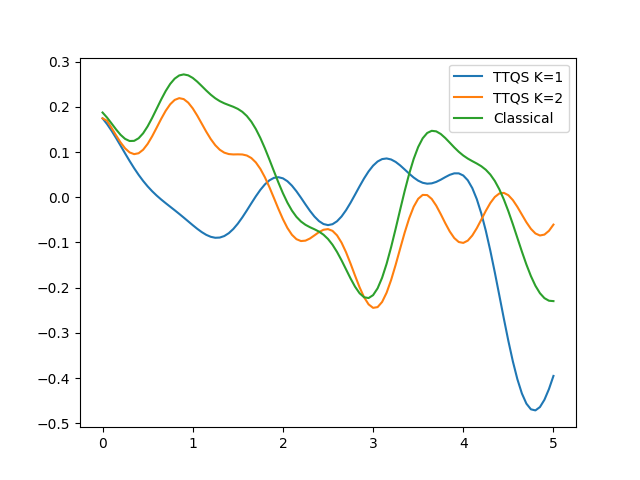
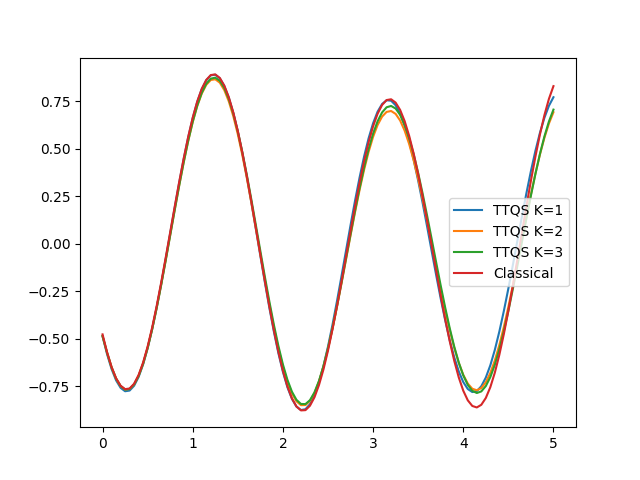
Minor stuff

diff --git a/Forjontoteststuff.py b/Forjontoteststuff.py
@@ -10,13 +10,13 @@ import json
 warnings.filterwarnings("ignore", category=DeprecationWarning) 
 
 #Parameters
-uptowhatK = 2
-num_qubits = 3
+uptowhatK = 3
+num_qubits = 2
 endtime = 5
 num_steps = 101
 optimizer = 'eigh'
 inv_cond = 10**(-3)
-numberoflayers = 3
+numberoflayers = 2
 randomseedforinitialstate = 183
 
 #create initial state
@@ -24,11 +24,12 @@ initial_state = acp.Initialstate(num_qubits, "TFI_hardware_inspired", randomseed
 
 #Qiskit stuff
 import Qiskit_helperfunctions as qhf #IBMQ account is loaded here in this import
+#IBMQ.load_account() 
 hub, group, project = "ibm-q-nus", "default", "reservations"
-quantum_com = "ibmq_rome" 
+quantum_com = "ibmq_bogota" 
 
 #Other parameters for running on the quantum computer
-sim = "noiseless_qasm"
+sim = "noiseless_qasm" #"noisy_qasm" #"noiseless_qasm"
 num_shots = 8000
 
 quantum_computer_choice_results = qhf.choose_quantum_computer(hub, group, project, quantum_com)
@@ -112,10 +113,10 @@ cS_instance.evaluate()
 
 #Observable we want to plot
 times = TTQS_instance.get_times()
-observable = hcp.generate_arbitary_observable(num_qubits, [1], ["030"]) 
+observable = hcp.generate_arbitary_observable(num_qubits, [1], ["20"]) 
 
 #What Ks we want to plot
-whatK = [1,2]
+whatK = [1,2,3]
 
 #Plotting results
 plotp.QS_plotter_forobservable(num_qubits,finalresults,times,whatK,'TTQS',observable,initial_state,evalmethod = "qiskit_circuits", expectation_calculator = expectation_calculator)

diff --git a/Qiskit_helperfunctions.py b/Qiskit_helperfunctions.py
@@ -24,6 +24,8 @@ import pauli_class_package as pcp
 import numpy as np
 from copy import deepcopy
 
+IBMQ.load_account() 
+
 def create_quantum_computer_simulation(couplingmap,depolarizingnoise=False,depolarizingnoiseparameter=0,bitfliperror=False,bitfliperrorparameter=0,measerror=False,measerrorparameter=0):
     """
     Returns a dictionary, where the key is what type of simulation ("noisy_qasm", "noiseless_qasm", "real"), and the value are the objects required for that particular simulation
